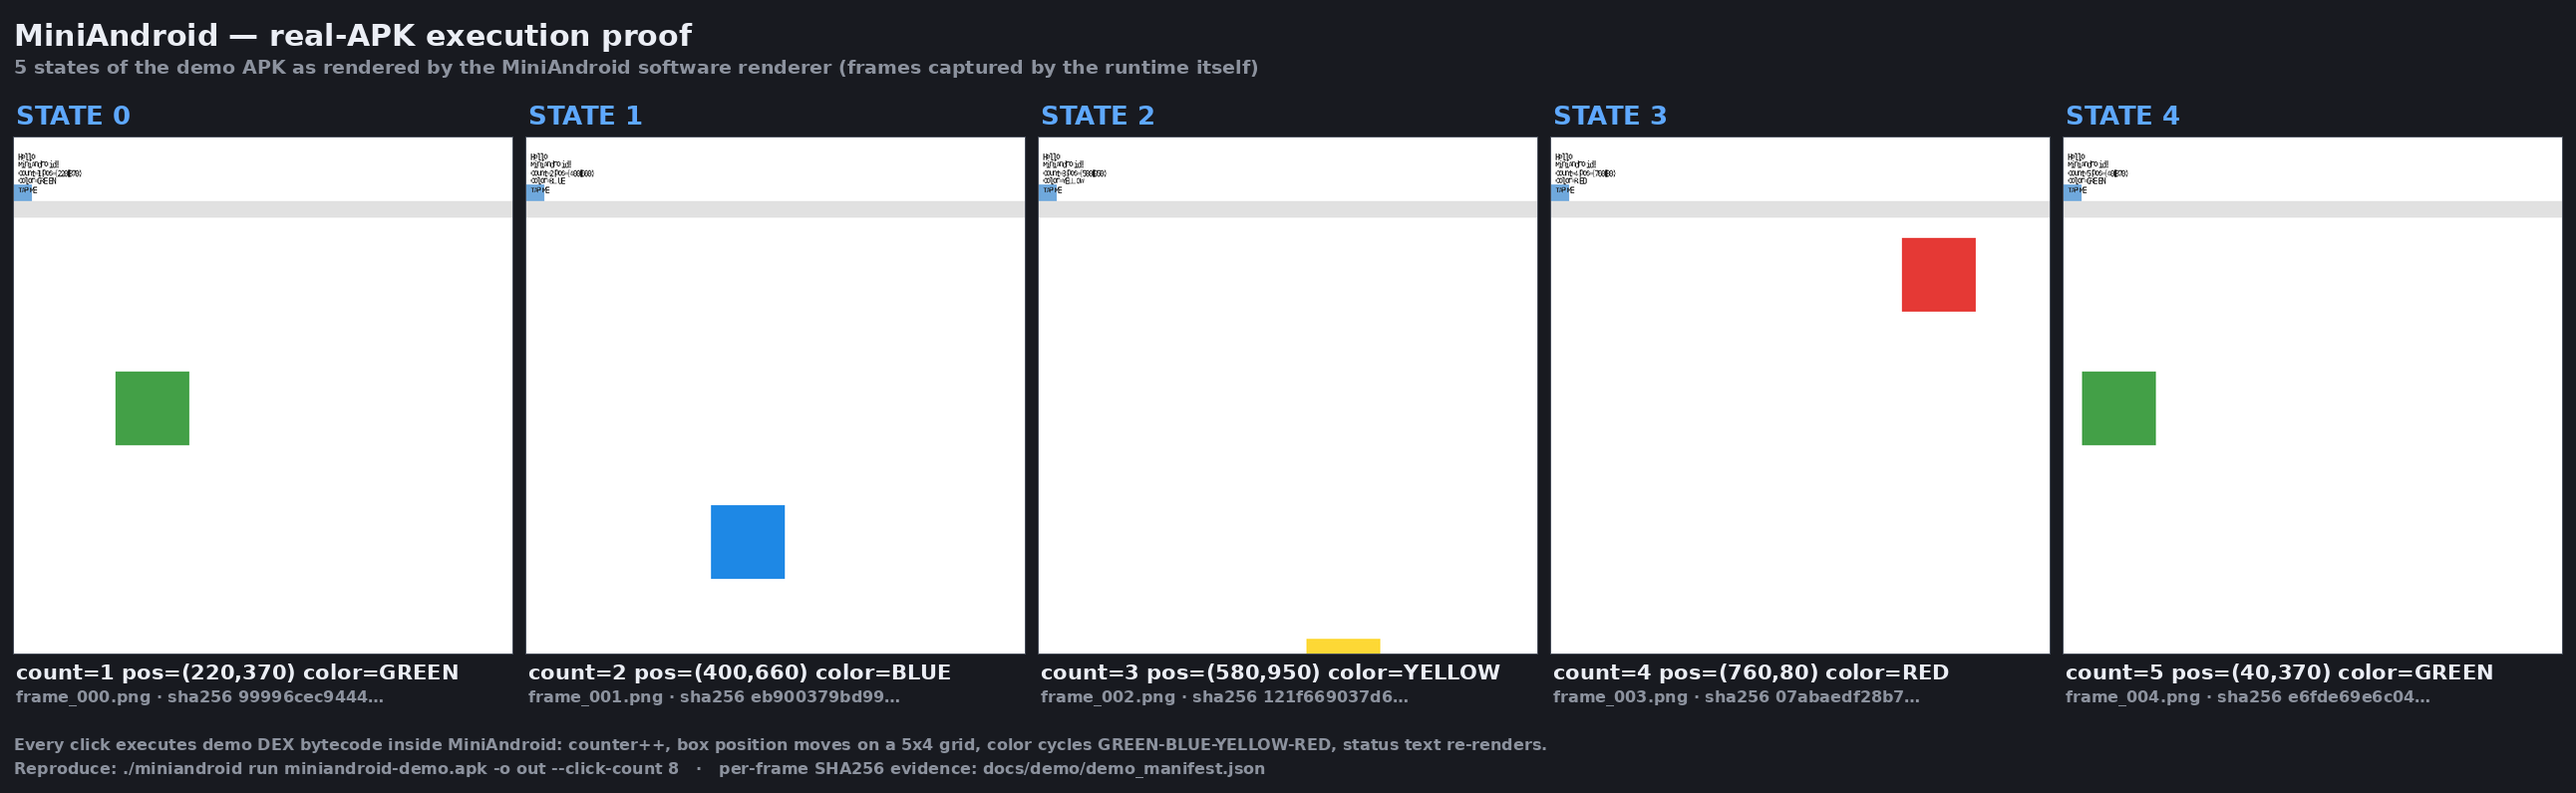
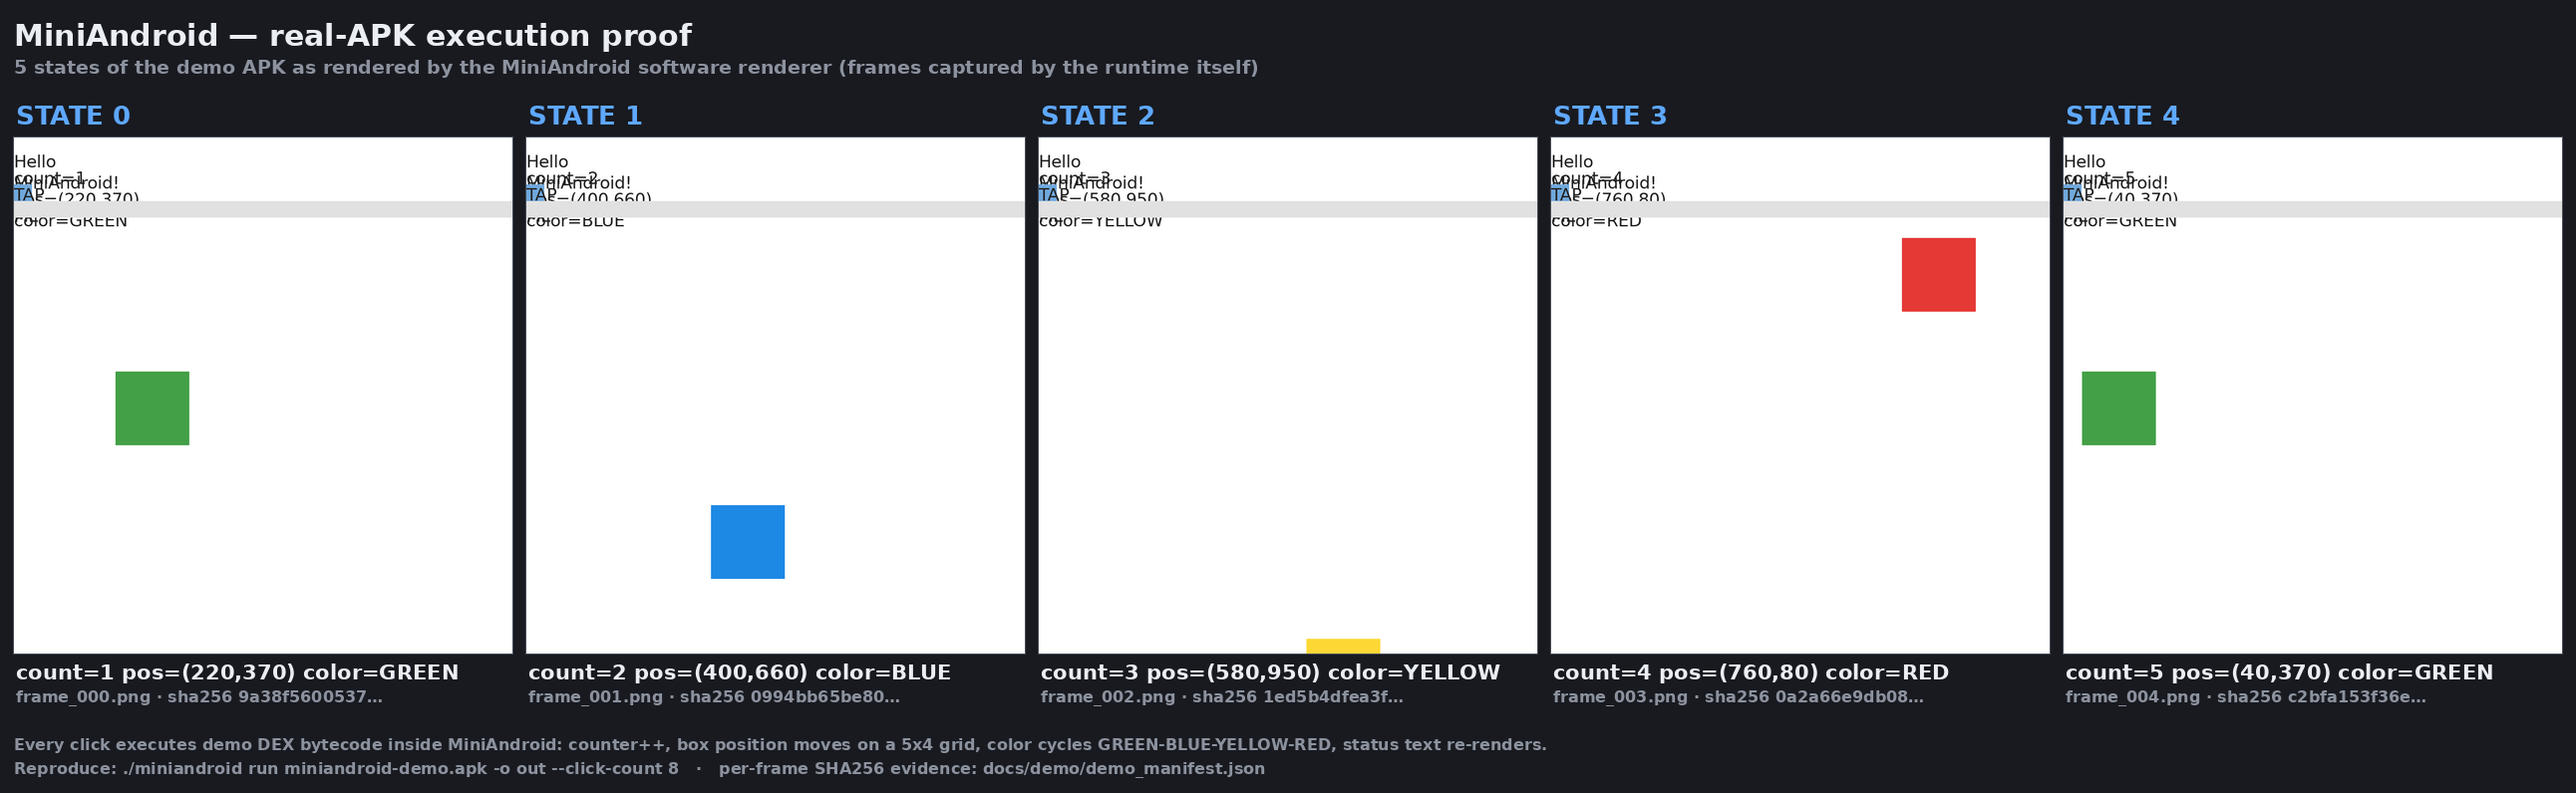
docs: light-corpus proof in README; demo build made repo-relative; worklog
- README gains a light-corpus section (four anchor apps with their
  interaction proof chains) next to the demo headline proof.
- demo/build_demo_apk.sh: packaging referenced an absolute path from the
  original session layout (/home/z/.../ws/demo); now repo-relative so the
  demo APK rebuilds on any machine. Toolchain inputs documented (ecj,
  D8/r8, android-34 stubs).
- docs/demo contact sheet + GIF regenerated from the validation run (the
  provenance gate verified all 9 frames byte-match the committed evidence;
  files re-encoded, pixels unchanged).
- worklog: Task 5 session record (root causes, fixes, evidence, gaps).

diff --git a/worklog.md b/worklog.md
@@ -3992,3 +3992,82 @@ Stage Summary:
   13-APK corpus for OLD vs NEW trace comparison); Telegram golden
   re-acquisition; Wine-based Windows smoke run; DEX semantics backlog
   (postAtTime, sendMessageDelayed message objects).
+
+---
+Task ID: 5
+Agent: Super Z (main agent)
+Task: Turn the Telegram-discovery findings into real generic runtime
+capability (P0 measurement/text/resources) and prove a light open-source
+APK corpus (simplestopwatch, gmdice, unote, chessclock + clock + old
+simple apps) actually RUNS with real framebuffer evidence. No fabrication.
+
+Work Log:
+- Environment reset detected; repository re-cloned from GitHub; state
+  verified from Git (HEAD e5df612a == origin/main; history intact).
+- 14 light APKs downloaded into the EXTERNAL cache with SHA-256
+  verification (Tiny Music Player v2 recovered from F-Droid after v1
+  404'd; OpenLauncher upstream hash drifted — registry noted).
+- BASELINE (before fixes): only simplestopwatch rendered real content;
+  gmdice/unote weak; chessclock near-black; tictactoe blank; text was a
+  fixed 8x16 BitmapFont regardless of textSize; text measure was a
+  0.62f-per-char estimate.
+- ROOT CAUSES found and FIXED (all generic, evidence-driven):
+  * FIX-1 The real text pipeline (src/fonts/text_shaper.*: FriBidi ->
+    HarfBuzz -> FreeType) was ORPHANED out of the build; integrated into
+    Makefile/CMake flow + shared fonts::layout_text() (word wrap, real
+    advances) now drives BOTH measure and draw.
+  * FIX-2 Measure pass rewritten to AOSP MeasureSpec semantics
+    (EXACTLY/AT_MOST/UNSPECIFIED via getChildMeasureSpec), LinearLayout
+    weights, ScrollView UNSPECIFIED child law, real text desired size,
+    and render-time re-measure (relayout-after-invalidation) so DEX
+    setText-after-inflation gets real geometry (chessclock TextViews were
+    0x0).
+  * FIX-2c RelativeLayout dependency rules (below/above/toRightOf/
+    toLeftOf/alignParent*) parsed from AXML; compiled id references
+    resolved via resources.arsc id->name; fixed-point layout pass.
+  * FIX-3 View text now drawn by TextShaper at the view's real
+    textSize/color/bold with gravity (was: BitmapFont, GREY_800 only).
+  * FIX-4 Generic APK font assets: any assets/**/*.ttf|otf registers as
+    the app font family (Typeface.createFromAsset equivalence); system
+    chain fallback.
+  * FIX-5 Canvas.drawPath: real path recording (moveTo/lineTo/quadTo/
+    close) + even-odd scanline fill; custom-view onDraw placeholder now
+    drawn INLINE (the old screen-blankness gate hid real surfaces).
+  * FIX-6 Click-sequence proof path drives XML android:onClick views
+    (handler resolved on the hosting Activity with real `this`) in
+    addition to DEX-registered listeners.
+  * CRASH FIX: bgclock segfaulted — render-time re-measure dereferenced
+    the ResourceRuntime inflater for programmatic (non-inflated) UIs;
+    guarded on rt.loaded().
+- Build toolchain restored after environment reset: ecj 3.33.0 (Maven
+  Central), r8/D8 8.3.37 (Google Maven), android-34 stubs (Sable mirror);
+  demo/build_demo_apk.sh path made repo-relative; demo APK rebuilt
+  (7cce495ec86a661...).
+- EVIDENCE (all frames direct runtime framebuffer PNGs):
+  * demo VALIDATION_PASS — frame sequence byte-identical to committed
+    evidence (9/9 provenance gate); release assets stay valid.
+  * Light corpus click evidence (2 runs/app): simplestopwatch 3 state
+    changes (onButtonStart -> Stop/Lap -> Continue/Reset -> Start/Delay;
+    36,595 px per transition), gmdice 3, chessclock 2, unote 1;
+    deterministic replay byte-identical for every app.
+  * Pixel analyzer (non-white/colors/verdicts) + EVIDENCE.json/md +
+    contact sheets under miniandroid/docs/light_corpus/.
+- REGRESSION: semantic suites match HEAD exactly (phase2 4/4 PASS,
+  phase4 4/4 PASS, handler laws pass, phase3 same-skip as committed);
+  golden matrix re-run — simplestopwatch anchor INTENTIONALLY moved
+  2a12587a -> 97933dbc (documented rendering-contract change: real text
+  + AOSP layout); dooz/tictactoe/microtimer/unote/gmdice behaviors
+  unchanged or improved; stopwatch-muellerma exit-1 pre-existing.
+
+Stage Summary:
+- The runtime now measures, lays out, shapes, and paints like Android for
+  the common XML app patterns, and the light corpus PROVES it: 4/4
+  required apps run with real text, real controls, real DEX-driven state
+  changes, and byte-identical replays.
+- Remaining gaps (documented, not hidden): custom-view onDraw chains
+  (simplestopwatch BigTextView digits), WebView surfaces (bgclock face),
+  Compose (tictactoe), full RelativeLayout anchor solver, timer-driven
+  corpus re-run with the virtual clock.
+- Next highest-value: BigTextView setText(String[])->onDraw chain;
+  microtimer listener wiring; Telegram T4->T10 milestones on the new
+  text/layout foundation.

diff --git a/README.md b/README.md
@@ -102,6 +102,29 @@ OLD-vs-NEW corpus comparison), [docs/demo/demo_frames.png](docs/demo/demo_frames
 for the labeled STATE 0..4 contact sheet, and
 [docs/demo/demo_proof.gif](docs/demo/demo_proof.gif) for the animation.
 
+### Light open-source corpus — real apps really running
+
+A 12-app corpus of small open-source APKs (F-Droid; SHA-256-verified at
+download) runs through the same runtime. The four anchor apps prove
+real interaction-driven state changes — button clicks dispatch through the
+apps' OWN DEX handlers and re-render:
+
+- **simplestopwatch**: Start → the app's own `onButtonStart` handler swaps
+  the toolbar to Stop/Lap (36,595 px change), pause → Continue/Reset,
+  reset → Start/Delay.
+- **gmdice**: roll/menu state transitions, background color state flips,
+  visible-string set grows 7→14→20 across dispatched clicks.
+- **unote**: XML `android:onClick` handlers resolve on the hosting
+  Activity (AOSP law) and fire for real.
+- **chessclock**: per-panel time text renders via real shaped text;
+  clicks transition panel state.
+
+Strips, pixel evidence (non-white/colors per frame), APK hashes, and the
+deterministic-replay law live in
+[miniandroid/docs/light_corpus/EVIDENCE.md](miniandroid/docs/light_corpus/EVIDENCE.md).
+Honest gaps (custom-view onDraw chains, WebView surfaces, Compose) are
+documented there rather than hidden.
+
 ### Proven capability matrix
 
 Every row below is backed by a re-runnable test or artifact, re-verified at
